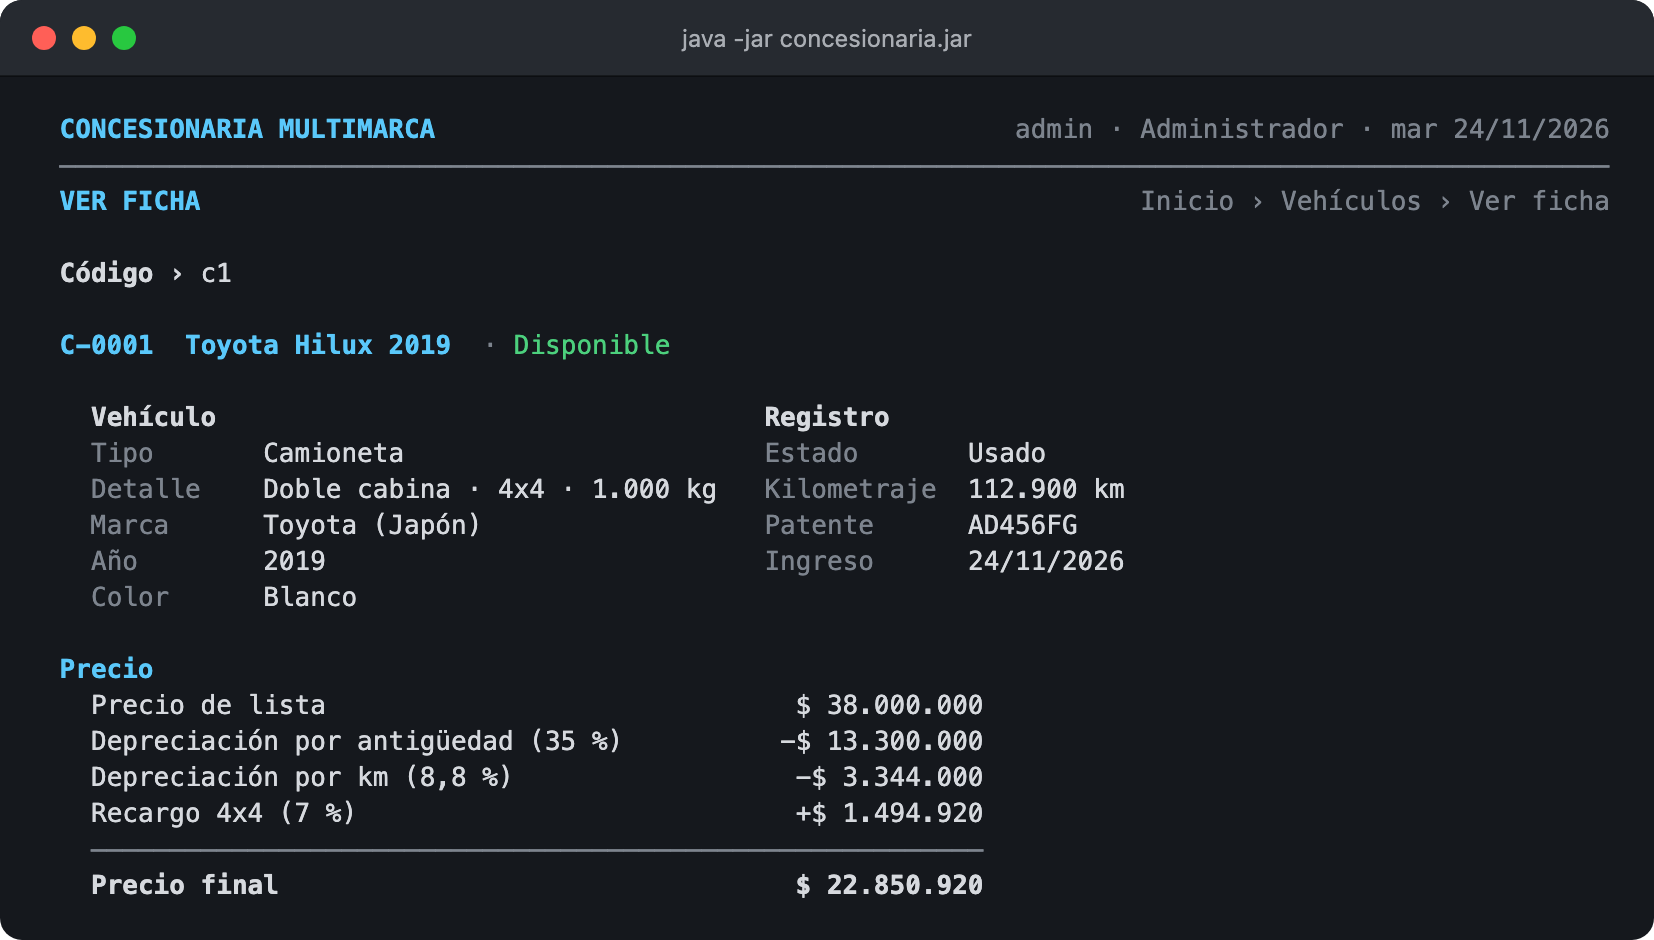
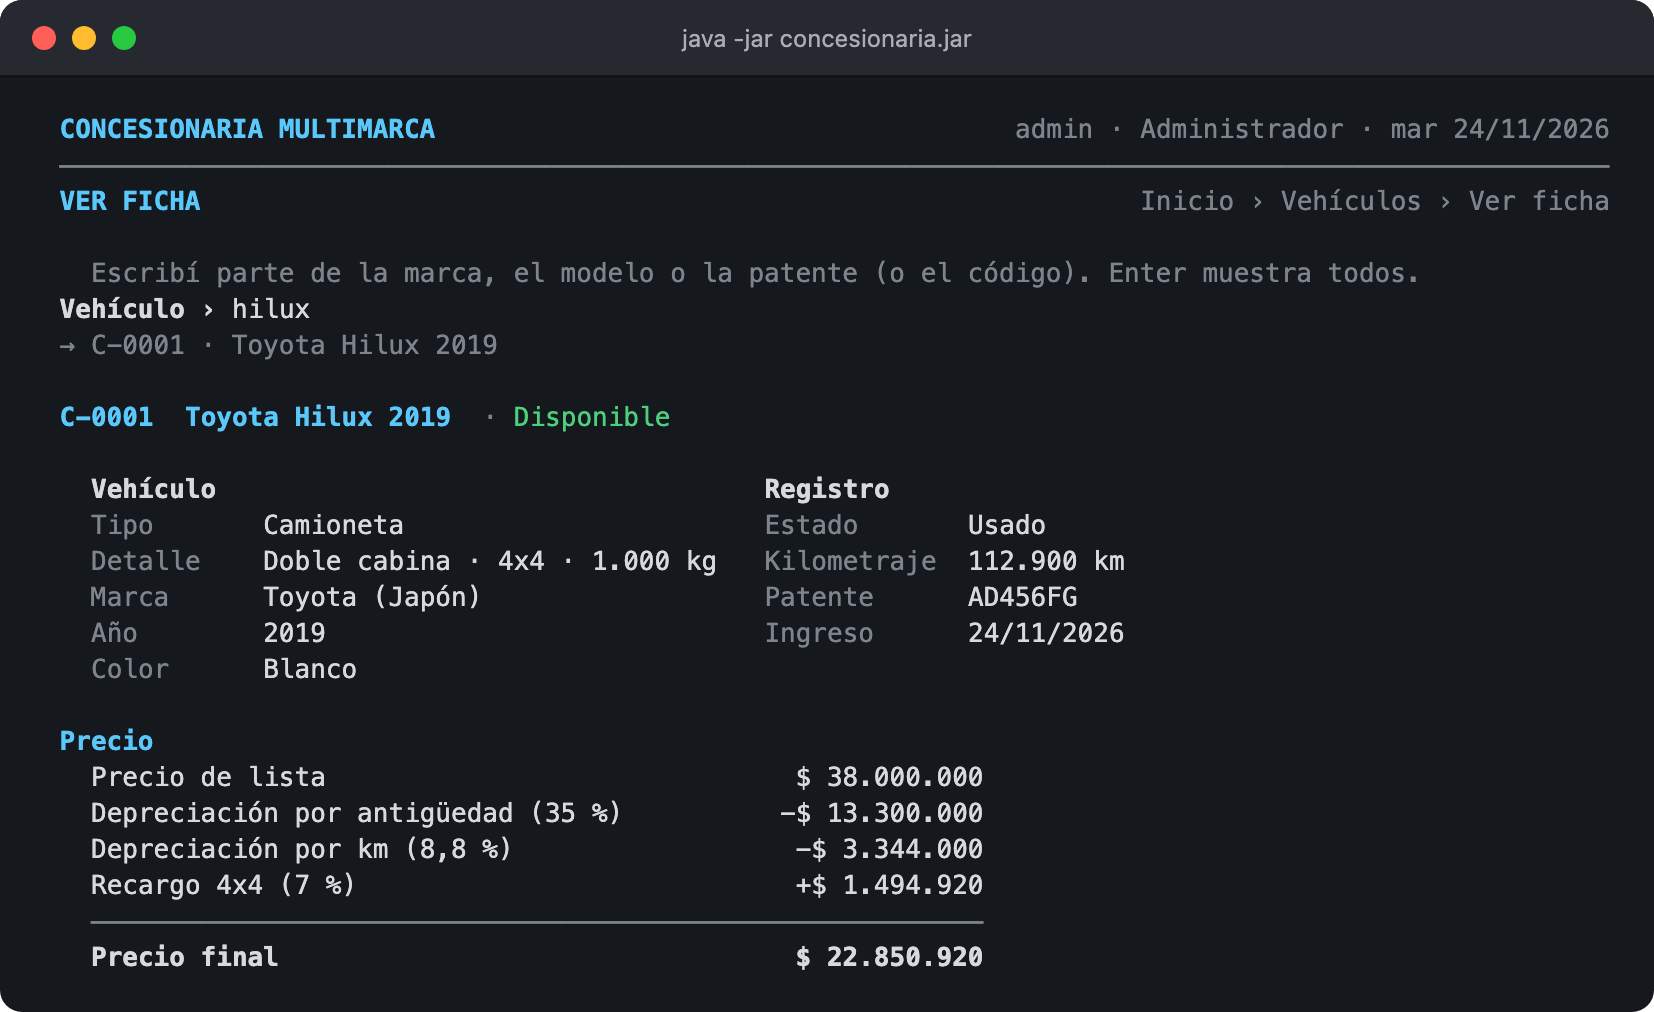
docs(readme): mostrar el selector de vehículos
Por qué: la captura de la ficha todavía mostraba el pedido de código
("Código › c1"), que ya no existe.

Para qué: el README y el informe muestran la consola tal como es: una
captura nueva del selector y la ficha elegida por búsqueda.

Dónde: README.md, docs/img/ (consola-selector y consola-ficha, con sus
PNG) y docs/informe/informe.html.

diff --git a/docs/informe/informe.html b/docs/informe/informe.html
@@ -277,6 +277,9 @@
     <li><b>Controles de data-entry</b>: cada campo se valida al momento y se vuelve a pedir
       hasta 3 veces con un mensaje que explica cómo corregirlo; <code>:q</code> cancela; en
       las modificaciones se muestra el valor actual y Enter lo mantiene.</li>
+    <li><b>Selección sin códigos</b>: para ver una ficha, cotizar, modificar, dar de baja o
+      vender, se escribe parte de la marca, el modelo o la patente y se elige de una tabla
+      numerada; Enter muestra todos los candidatos.</li>
     <li><b>Confirmaciones proporcionales</b>: s/n para las altas; para una baja hay que
       escribir el código del vehículo.</li>
   </ul>
@@ -424,7 +427,9 @@
  ───────────────────────────────────────────────────────────────────────────────────────────────
  VER FICHA                                                        Inicio › Vehículos › Ver ficha
 
- Código › c1
+   Escribí parte de la marca, el modelo o la patente (o el código). Enter muestra todos.
+ Vehículo › hilux
+ → C-0001 · Toyota Hilux 2019
 
  C-0001  Toyota Hilux 2019  · Disponible
 
@@ -478,7 +483,7 @@
  Son 3 pasos. :q en cualquier campo cancela sin vender nada.
 
  Paso 1 de 3 · Vehículo
-   Escribí el código (c4, A-0001) o una búsqueda: marca, modelo o patente.
+   Escribí parte de la marca, el modelo o la patente (o el código). Enter muestra todos.
  Vehículo › corolla
 
  A-0001  Toyota Corolla 2026  · Disponible

diff --git a/README.md b/README.md
@@ -69,6 +69,13 @@ registren como marcas distintas.
 
 ![Alta de una moto: paso 2 de 4 con marca elegida por prefijo, un año escrito como "dos mil" que se rechaza con un mensaje que pide cuatro dígitos, el color elegido de una grilla, y en el paso 3 una patente de auto rechazada porque las motos tienen otro formato.](docs/img/consola-alta.svg)
 
+**Selección de vehículos sin códigos.** Para ver una ficha, cotizar, modificar, dar de baja
+o vender no es necesario conocer el código: se escribe parte de la marca, el modelo o la
+patente y se elige de una tabla numerada. Una única coincidencia se selecciona
+automáticamente, y Enter muestra todos los candidatos.
+
+![Selector de vehículos: una búsqueda sin resultados indica cómo continuar; la búsqueda "toyota" muestra dos vehículos numerados y se elige el segundo.](docs/img/consola-selector.svg)
+
 <table>
 <tr>
 <td width="50%" valign="top">
